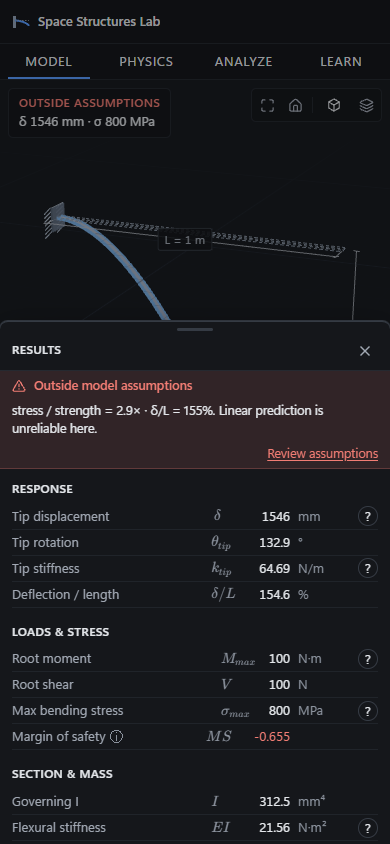
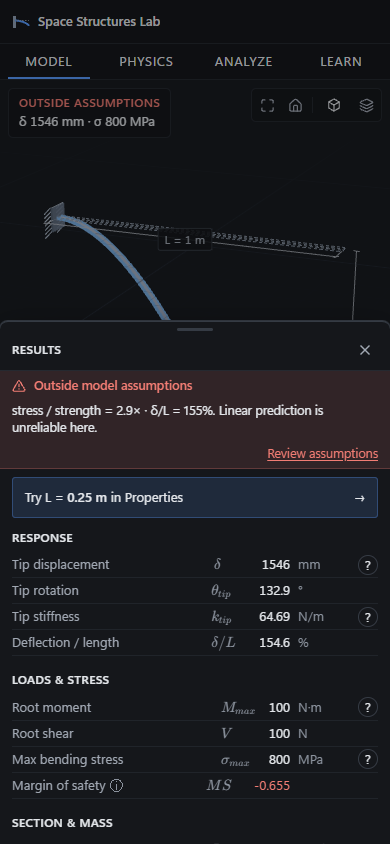
Make the first beam experiment actionable

diff --git a/src/features/viewport/Onboarding.tsx b/src/features/viewport/Onboarding.tsx
@@ -2,7 +2,7 @@
  * First-run guide. Each step completes on a real user action (tracked in the
  * store), and each "Show me" focuses the control that performs it.
  */
-import { Check, ChevronDown, ChevronUp, X } from "lucide-react";
+import { ArrowRight, Check, ChevronDown, ChevronUp, X } from "lucide-react";
 import { useEffect } from "react";
 import { formatNumber, formatQuantityText } from "@/core/units";
 import { solveCantilever } from "@/lib/structures/cantilever";
@@ -17,10 +17,16 @@ type Step = Exclude<keyof OnboardingState, "dismissed" | "collapsed">;
 export const GUIDE_WIDTH = 252;
 
 function focusParam(param: string) {
-  requestAnimationFrame(() => {
+  const focusWhenReady = (attempt: number) => {
     const el = document.querySelector<HTMLInputElement>(`input[data-param="${param}"]`);
-    el?.focus();
-  });
+    if (!el) return;
+    if (el.closest("[inert]") || el.getBoundingClientRect().width === 0) {
+      if (attempt < 30) requestAnimationFrame(() => focusWhenReady(attempt + 1));
+      return;
+    }
+    el.focus();
+  };
+  requestAnimationFrame(() => focusWhenReady(0));
 }
 
 /**
@@ -109,6 +115,12 @@ export function Onboarding({
   ];
   const done = steps.filter((s) => onboarding[s.id]).length;
   const next = steps.find((s) => !onboarding[s.id]);
+  const firstExperiment =
+    workspace === "model" && variant === "overlay" && collapsed && !forceCollapsed && !onboarding.lengthChanged &&
+    solved?.ok && solved.value.result.deflectionRatio > 0.1;
+  const suggestedLength = solved?.ok
+    ? lengthForDeflectionRatio(solved.value.result.input, solved.value.result.EI)
+    : Number.NaN;
 
   return (
     <section
@@ -117,13 +129,13 @@ export function Onboarding({
           ? "absolute top-2 left-2 rounded-md border border-line bg-panel/95 backdrop-blur-sm"
           : "mx-2 mb-2 rounded-md border border-line bg-raised/60"
       }
-      style={variant === "overlay" ? { width: collapsed ? "auto" : GUIDE_WIDTH } : undefined}
+      style={variant === "overlay" ? { width: collapsed && !firstExperiment ? "auto" : GUIDE_WIDTH } : undefined}
       aria-label="Getting started"
       data-testid="onboarding"
       data-variant={variant}
     >
       <header className="flex h-8 items-center gap-2 pr-1 pl-2.5">
-        <span className="caps flex-1">{variant === "overlay" && collapsed ? "Guide" : "Get started"}</span>
+        <span className="caps flex-1">{firstExperiment ? "First experiment" : variant === "overlay" && collapsed ? "Guide" : "Get started"}</span>
         <span className="num text-[11px] text-faint">{done}/4</span>
         <button
           className="icon-btn h-6 w-6"
@@ -138,6 +150,16 @@ export function Onboarding({
           <X size={14} />
         </button>
       </header>
+      {firstExperiment && Number.isFinite(suggestedLength) && (
+        <button
+          className="flex w-full cursor-pointer items-center justify-between gap-2 border-t border-line px-2.5 py-2 text-left text-[12px] text-fg hover:bg-hover focus-visible:bg-hover"
+          onClick={steps[0]!.show}
+          data-testid="guide-first-experiment"
+        >
+          <span>Try L = <span className="num font-semibold">{formatQuantityText(suggestedLength, "span", system)}</span></span>
+          <ArrowRight size={14} className="shrink-0 text-accent-text" aria-hidden />
+        </button>
+      )}
       {!collapsed && (
         <ol className="px-1.5 pb-1.5">
           {steps.map((s, i) => {

diff --git a/src/features/shell/MobileShell.tsx b/src/features/shell/MobileShell.tsx
@@ -7,9 +7,11 @@ import * as Dialog from "@radix-ui/react-dialog";
 import { BookOpen, ChartLine, ListTree, SlidersHorizontal, X } from "lucide-react";
 import { lazy, Suspense, useState, type ReactNode } from "react";
 import { formatQuantityText } from "@/core/units";
+import { IDS } from "@/model/document";
 import { useLab, useSolved, type MobileSheet } from "@/state/store";
 import { Inspector } from "../inspector/Inspector";
 import { AssumptionsPanel } from "../learn/AssumptionsPanel";
+import { lengthForDeflectionRatio } from "../learn/explain";
 import { LearnPanel } from "../learn/LearnPanel";
 import { LibraryDialog } from "../library/Library";
 import { ResultDetails } from "../results/ResultDetails";
@@ -51,9 +53,19 @@ function Sheet({ id, title, children }: { id: Exclude<MobileSheet, null>; title:
 export function MobileShell() {
   const solved = useSolved();
   const setSheet = useLab((s) => s.setMobileSheet);
+  const select = useLab((s) => s.select);
   const system = useLab((s) => s.unitSystem);
   const [libraryOpen, setLibraryOpen] = useState(false);
   const ok = solved?.ok ? solved.value : null;
+  const lengthSuggestion = ok && ok.result.deflectionRatio > 0.1
+    ? lengthForDeflectionRatio(ok.result.input, ok.result.EI)
+    : null;
+
+  const editLength = () => {
+    select(IDS.beam);
+    setSheet("inspector");
+    requestAnimationFrame(() => document.querySelector<HTMLInputElement>('[data-testid="sheet-inspector"] input[data-param="L"]')?.focus());
+  };
 
   const nav: { id: Exclude<MobileSheet, null>; label: string; icon: ReactNode }[] = [
     { id: "tree", label: "Model", icon: <ListTree size={17} /> },
@@ -121,6 +133,16 @@ export function MobileShell() {
           </Sheet>
           <Sheet id="results" title="Results">
             <ValidityNotice solved={ok} onReview={() => setSheet("learn")} compact />
+            {lengthSuggestion !== null && Number.isFinite(lengthSuggestion) && (
+              <button
+                className="mx-3 mt-2 flex w-[calc(100%-24px)] cursor-pointer items-center justify-between rounded-sm border border-accent/30 bg-accent-weak px-3 py-2.5 text-left text-[12.5px] text-accent-text"
+                onClick={editLength}
+                data-testid="mobile-first-experiment"
+              >
+                <span>Try L = <span className="num font-semibold">{formatQuantityText(lengthSuggestion, "span", system)}</span> in Properties</span>
+                <span aria-hidden>→</span>
+              </button>
+            )}
             <div className="p-3">
               <ResultDetails solved={ok} />
             </div>

diff --git a/tests/e2e/first-lesson.spec.ts b/tests/e2e/first-lesson.spec.ts
@@ -1,0 +1,32 @@
+import { expect, test } from "@playwright/test";
+import { freshModel, setField } from "./helpers";
+
+test("the first lesson leads from the invalid beam to its length input", async ({ page }) => {
+  await freshModel(page);
+  const action = page.getByTestId("guide-first-experiment");
+  await expect(action).toContainText("0.25 m");
+  await page.getByTestId("toggle-inspector").click();
+  await expect(page.getByTestId("toggle-inspector")).toHaveAttribute("aria-expanded", "false");
+  await action.click();
+  await expect(page.getByTestId("toggle-inspector")).toHaveAttribute("aria-expanded", "true");
+  await expect(page.getByTestId("field-L")).toBeFocused();
+  await setField(page, "field-L", "0.25");
+  await expect(page.getByTestId("validity-notice")).toHaveAttribute("data-status", "caution");
+  await expect(action).toHaveCount(0);
+  await page.getByRole("button", { name: "Expand guide" }).click();
+  await expect(page.getByTestId("onboarding-lengthChanged")).toHaveAttribute("data-complete", "true");
+});
+
+test.describe("phone", () => {
+  test.use({ viewport: { width: 390, height: 844 }, hasTouch: true, isMobile: true });
+
+  test("the Results warning opens the beam length input", async ({ page }) => {
+    await freshModel(page);
+    await page.getByTestId("mobile-result-chip").click();
+    const action = page.getByTestId("mobile-first-experiment");
+    await expect(action).toContainText("0.25 m");
+    await action.click();
+    await expect(page.getByTestId("sheet-inspector")).toBeVisible();
+    await expect(page.getByTestId("field-L")).toBeFocused();
+  });
+});

diff --git a/docs/UI_VALIDATION_REPORT.md b/docs/UI_VALIDATION_REPORT.md
@@ -396,3 +396,30 @@ production Vite build passed. One transient browser-test failure during an
 earlier run came from the development-only viewport hook not being ready after
 a page refresh; the point-click helper now waits for the hook. The complete
 suite passed on the subsequent run.
+
+## 14. First experiment and model validity — 2026-09-24
+
+The product specification recommends a 1 m reference beam and a guided first
+edit of beam length. That reference case produces δ/L ≈ 155% and stress above
+yield. The warning explained the limits, but the collapsed guide showed only
+“0/4,” leaving the next action hidden. On the phone, the warning in Results
+offered assumptions but no route to the relevant input.
+
+On the initial Model screen, the compact guide now shows a single experiment:
+“Try L = 0.25 m.” It derives the suggested length from the live deflection
+ratio, rounds it down inside the small-deflection threshold, and focuses the
+beam's length field when chosen. The cue disappears after a length edit; the
+guide's existing progress and full explanation remain available. Other
+workspaces keep the smaller collapsed guide. In the phone Results sheet, the
+same experiment opens Properties with Beam 01 selected and focuses Length.
+Neither action silently changes the engineering model.
+
+Reviewed the selected-beam view at desktop and laptop sizes and the phone
+Results sheet. The cue stays clear of the beam and viewport tools. Dedicated
+browser flows cover the desktop and phone paths. The 1 m starting case remains
+deliberately outside the model assumptions; first-time comprehension still
+needs observation with actual users.
+
+Final verification: 35 Playwright flows, 131 unit tests, TypeScript, and the
+production Vite build passed. The regenerated selected-beam and phone Results
+screenshots document the revised first action.
